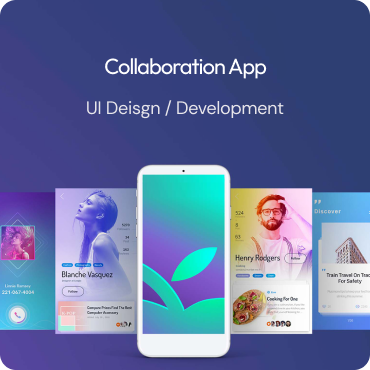
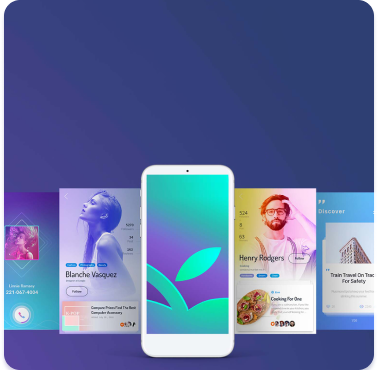
test 14

diff --git a/page_portfolio.html b/page_portfolio.html
@@ -60,8 +60,8 @@
 
         <main>
             <section class="work">
-                <h1 class="work__title">Get inspired by our finest work</h1>
-                <div class="work-wrap d-flex">
+                <h1 class="work-title">Get inspired by our finest work</h1>
+                <div class="work-title__wrap d-flex">
                     <div class="work-wrap__col d-flex ">
                         <img src="./assets/img/work 1.png" alt="#">
                         <img src="./assets/img/work 2.png" alt="#">
@@ -76,8 +76,8 @@
                     </div>
 
                 </div>
-                <div class="button-work">
-                <a class="button-work__button">LOAD MORE</a>
+                <div class="work-button">
+                <a class="work-button__btn">LOAD MORE</a>
                 </div>
             </section>
 
@@ -132,9 +132,37 @@
                             
                         </div>
                         <div class="recent-wrap__images d-flex">
-                            <img src="./assets/img/recent 1.png" alt="#" class="recent-images__img">
-                            <img src="./assets/img/recent 2.png" alt="#" class="recent-images__img">
-                            <img src="./assets/img/recent 3.png" alt="#" class="recent-images__img">
+
+                            <div class="recent-wrap__box">
+                                <div class="recent-box__sizing ">
+                                    <img src="./assets/img/recent 1.png" alt="#" class="recent-images__img">
+                                    <div class="recent-wrap__tip">
+                                        <div class="recent-box__title">Collaboration App</div>
+                                        <div class="recent-box__discription">UI Deisgn / Development</div>
+                                    </div>     
+                                </div>                   
+                            </div>
+
+                            <div class="recent-wrap__box">
+                               <div class="recent-box__sizing ">
+                                    <img src="./assets/img/recent 2.png" alt="#" class="recent-images__img">
+                                    <div class="recent-wrap__tip">
+                                        <div class="recent-box__title">Learning Mobile</div>
+                                        <div class="recent-box__discription">UI Deisgn / Development</div>
+                                    </div>
+                               </div>
+                            </div>
+
+                            <div class="recent-wrap__box">
+                                <div class="recent-box__sizing ">
+                                    <img src="./assets/img/recent 3.png" alt="#" class="recent-images__img">
+                                    <div class="recent-wrap__tip">
+                                        <div class="recent-box__title">Abstract Waves</div>
+                                        <div class="recent-box__discription">UI Deisgn / Development</div>
+                                    </div>
+                                </div>
+                            </div>
+
                         </div>
                     </div>
                 </div>

diff --git a/index.html b/index.html
@@ -99,19 +99,19 @@
                             <div class="second-body__right">
                                 <h3 class="second-right__title">Websites and branding that set the groundwork 
                                     for successful marketing</h3>
-                                <div class="body-right__description">We create human-centered enterprise 
+                                <div class="second-right__description">We create human-centered enterprise 
                                     software that has the polished, snappy feel of the best consumer apps.</div>
-                                <div class="body-brand">
-                                    <div class="body-brand__left">
-                                        <div class="body-brand__icon"><img src="./assets/img/fi_pen-tool.svg" alt="pentool" class="body__img"></div>
-                                        <h4 class="body-brand__branding">Branding</h4>
-                                        <div class="body-brand__title">We design digital products used
+                                <div class="second-right__brand">
+                                    <div class="second-right__brand__left">
+                                        <div class="second-right__brand__icon"><img src="./assets/img/fi_pen-tool.svg" alt="pentool" class="body__img"></div>
+                                        <h4 class="second-right__brand__branding">Branding</h4>
+                                        <div class="second-right__brand__title">We design digital products used
                                             by millions of people.</div>
                                     </div>
-                                    <div class="body-brand__right">
-                                        <div class="body-brand__icon"><img src="./assets/img/fi_coffee.svg" alt="coffee" class="body__img"></div>
-                                        <h4 class="body-brand__design">UX/UI Design</h4>
-                                            <div class="body-brand__title">We design digital products used
+                                    <div class="second-right__brand__right">
+                                        <div class="second-right__brand__icon"><img src="./assets/img/fi_coffee.svg" alt="coffee" class="body__img"></div>
+                                        <h4 class="second-right__brand__design">UX/UI Design</h4>
+                                            <div class="second-right__brand__title">We design digital products used
                                             by millions of people.</div>
                                     </div>
                                     

diff --git a/src/scss/style.css b/src/scss/style.css
@@ -665,7 +665,7 @@ img {
   z-index: -1;
 }
 
-.body-brand__icon {
+.second-right__brand__icon {
   width: 70px;
   height: 70px;
   background-color: #292F3A;
@@ -675,16 +675,16 @@ img {
   border-radius: 50%;
 }
 
-.body-brand {
+.second-right__brand {
   display: flex;
   padding-top: 48px;
 }
 
-.body-brand__title {
+.second-right__brand__title {
   color: #7B88A8;
 }
 
-.body-right__description {
+.second-right__description {
   max-width: 541px;
   color: #7B88A8;
 }
@@ -2233,29 +2233,29 @@ img .experience:first-child {
   line-height: 26px;
 }
 
-.work__title {
+.work-title {
   padding-top: 120px;
   padding-bottom: 90px;
 }
 
-.work-wrap {
+.work-title__wrap {
   gap: 30px;
   padding: 0 30px;
 }
 @media (max-width: 768px) {
-  .work-wrap {
+  .work-title__wrap {
     flex-wrap: wrap;
     justify-content: center;
   }
 }
 @media (max-width: 991px) {
-  .work-wrap {
+  .work-title__wrap {
     flex-wrap: wrap;
     justify-content: center;
   }
 }
 @media (max-width: 1200px) {
-  .work-wrap {
+  .work-title__wrap {
     flex-wrap: wrap;
     justify-content: center;
   }
@@ -2266,7 +2266,7 @@ img .experience:first-child {
   gap: 30px;
 }
 
-.button-work__button {
+.work-button__btn {
   color: #7B88A8;
   display: inline-flex;
   height: 55.941px;
@@ -2278,7 +2278,7 @@ img .experience:first-child {
   background: #E7E5EA;
 }
 
-.button-work {
+.work-button {
   text-align: center;
   padding-top: 70px;
 }
@@ -2319,6 +2319,44 @@ img .experience:first-child {
 
 .company--p120 {
   padding-bottom: 120px;
+}
+
+.recent-wrap__box {
+  display: flex;
+  flex-direction: column;
+  position: relative;
+}
+
+.recent-box__sizing {
+  display: flex;
+  flex-direction: column;
+  justify-content: center;
+  align-items: center;
+}
+
+.recent-wrap__tip {
+  position: absolute;
+  top: 60px;
+}
+
+.recent-box__title {
+  text-align: center;
+  color: var(--text-text-white, #FFF);
+  font-family: Outfit;
+  font-size: 22px;
+  font-weight: 400;
+  line-height: 1.5; /* 145.455% */
+  letter-spacing: -1px;
+}
+
+.recent-box__discription {
+  color: var(--text-text-gray, #E7E5EA);
+  text-align: center;
+  font-family: DM Sans;
+  font-size: 18px;
+  font-weight: 400;
+  line-height: 1.6; /* 155.556% */
+  letter-spacing: -0.3px;
 }
 
 .shop-right__box {

diff --git a/src/scss/components/_section.scss b/src/scss/components/_section.scss
@@ -227,7 +227,7 @@
     z-index: -1;
 }
 
-.body-brand__icon {
+.second-right__brand__icon {
     width: 70px;
     height: 70px;
     background-color: #292F3A;
@@ -237,16 +237,16 @@
     border-radius: 50%;
 }
 
-.body-brand {
+.second-right__brand {
     display: flex;
     padding-top: 48px;
 }
 
-.body-brand__title {
+.second-right__brand__title {
     color: #7B88A8;
 }
 
-.body-right__description {
+.second-right__description {
     max-width: 541px;
     color: #7B88A8;
 }
@@ -1803,11 +1803,11 @@ height: 170px;
 
 //page_portfolio
 
-.work__title {
+.work-title {
     padding-top: 120px;
     padding-bottom: 90px;
 }
-.work-wrap {
+.work-title__wrap {
     gap: 30px;
     padding: 0 30px;
     @media (max-width: 768px) {
@@ -1828,7 +1828,7 @@ height: 170px;
     gap: 30px;
 }
 
-.button-work__button {
+.work-button__btn {
     color: #7B88A8;
     display: inline-flex;
     height: 55.941px;
@@ -1840,7 +1840,7 @@ height: 170px;
     background: #E7E5EA;
 }
 
-.button-work {
+.work-button {
     text-align: center;
     padding-top: 70px;
 }
@@ -1876,6 +1876,41 @@ height: 170px;
 
 .company--p120 {
     padding-bottom: 120px;
+}
+
+.recent-wrap__box {
+    display: flex;
+    flex-direction: column;
+    position: relative;
+  
+}
+.recent-box__sizing  {
+    display: flex;
+    flex-direction: column;
+    justify-content: center;
+    align-items: center;
+}
+.recent-wrap__tip {
+    position: absolute;
+    top: 60px;
+}
+.recent-box__title {
+    text-align: center;
+    color: var(--text-text-white, #FFF);
+    font-family: Outfit;
+    font-size: 22px;
+    font-weight: 400;
+    line-height: 1.5; /* 145.455% */
+    letter-spacing: -1px;
+}
+.recent-box__discription {
+    color: var(--text-text-gray, #E7E5EA);
+    text-align: center;
+    font-family: DM Sans;
+    font-size: 18px;
+    font-weight: 400;
+    line-height: 1.6; /* 155.556% */
+    letter-spacing: -0.3px;
 }
 
 

diff --git a/src/scss/style.scss b/src/scss/style.scss
@@ -1,13 +1,13 @@
-@import '/src/scss/abstracts/variables';
-@import '/src/scss/base/normalize';
-@import '/src/scss/base/reset';
-@import '/src/scss/components/button';
-@import '/src/scss/components/footer';
-@import '/src/scss/components/header_extra';
-@import '/src/scss/components/header';
-@import '/src/scss/components/media';
-@import '/src/scss/components/object';
-@import '/src/scss/components/section';
-@import '/src/scss/components/textbox';
-@import '/src/scss/layouts/grid';
-@import '/src/scss/utils/utils';
+@import './abstracts/variables';
+@import './base/normalize';
+@import './base/reset';
+@import './components/button';
+@import './components/footer';
+@import './components/header_extra';
+@import './components/header';
+@import './components/media';
+@import './components/object';
+@import './components/section';
+@import './components/textbox';
+@import './layouts/grid';
+@import './utils/utils';
